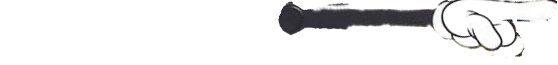
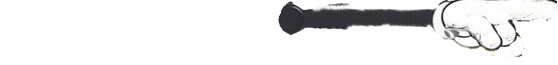
modifications to clock

diff --git a/tsis7/clock/mickey_clock.py b/tsis7/clock/mickey_clock.py
@@ -40,12 +40,12 @@ def main():
         screen.fill(0)
         screen.blit(clock_image, (0, 0))
     
-        rot_minhand = pygame.transform.rotate(minhand_image, -1 * ((6 * curr_min) % 360))
+        rot_minhand = pygame.transform.rotate(minhand_image, -1 * (6 * curr_min) - 160)
         rot_minhand_rect = rot_minhand.get_rect()
         rot_minhand_rect.center = minhand_rect.center
         screen.blit(rot_minhand, rot_minhand_rect)
     
-        rot_sechand = pygame.transform.rotate(sechand_image, -1 * ((6 * curr_sec + 180) % 360))
+        rot_sechand = pygame.transform.rotate(sechand_image, -1 * (6 * curr_sec) + 90)
         rot_sechand_rect =rot_sechand.get_rect()
         rot_sechand_rect.center = sechand_rect.center
         screen.blit(rot_sechand, rot_sechand_rect)
